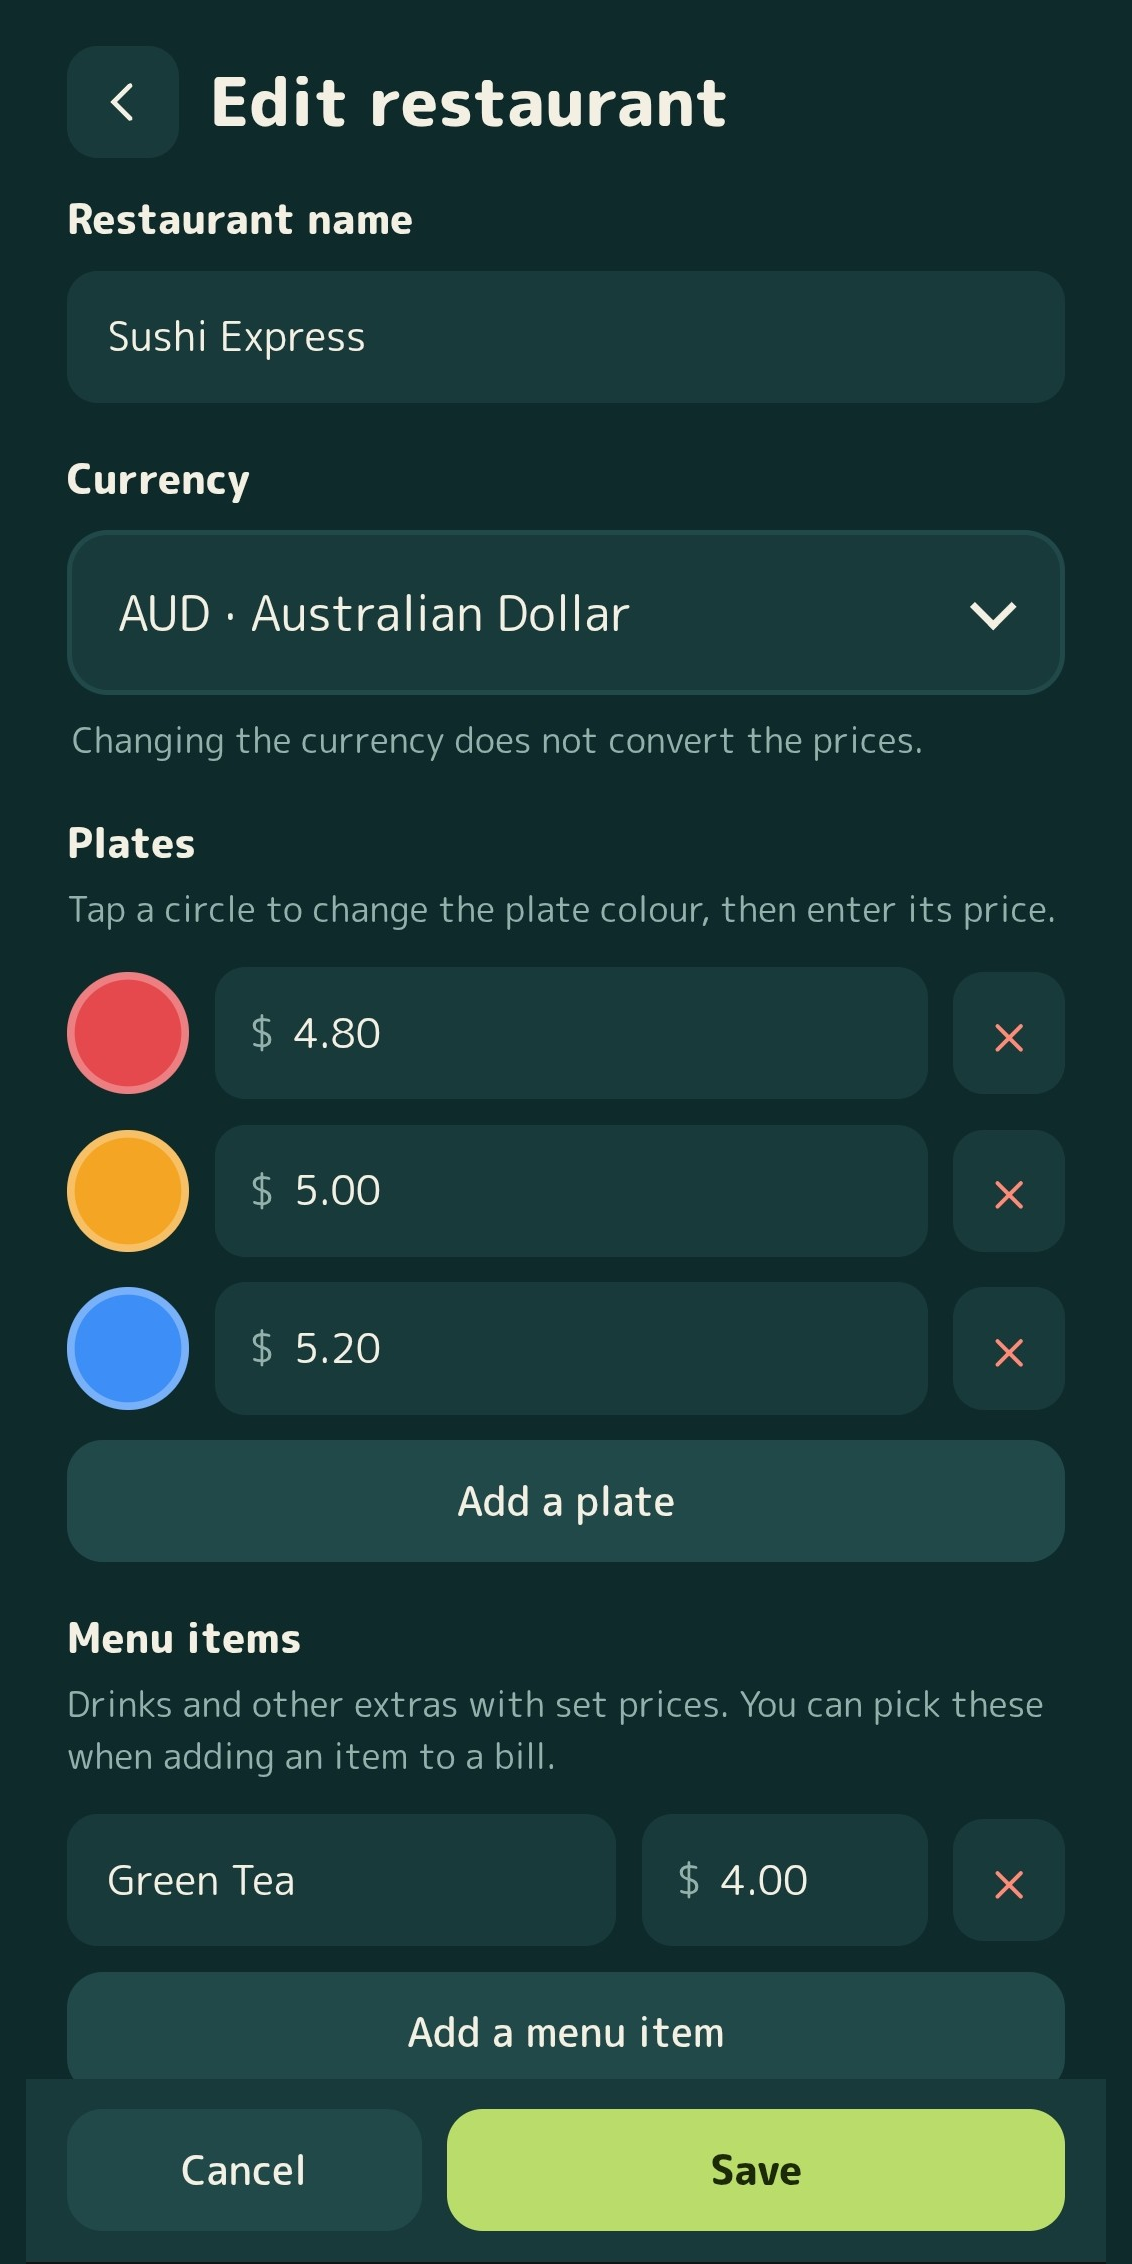
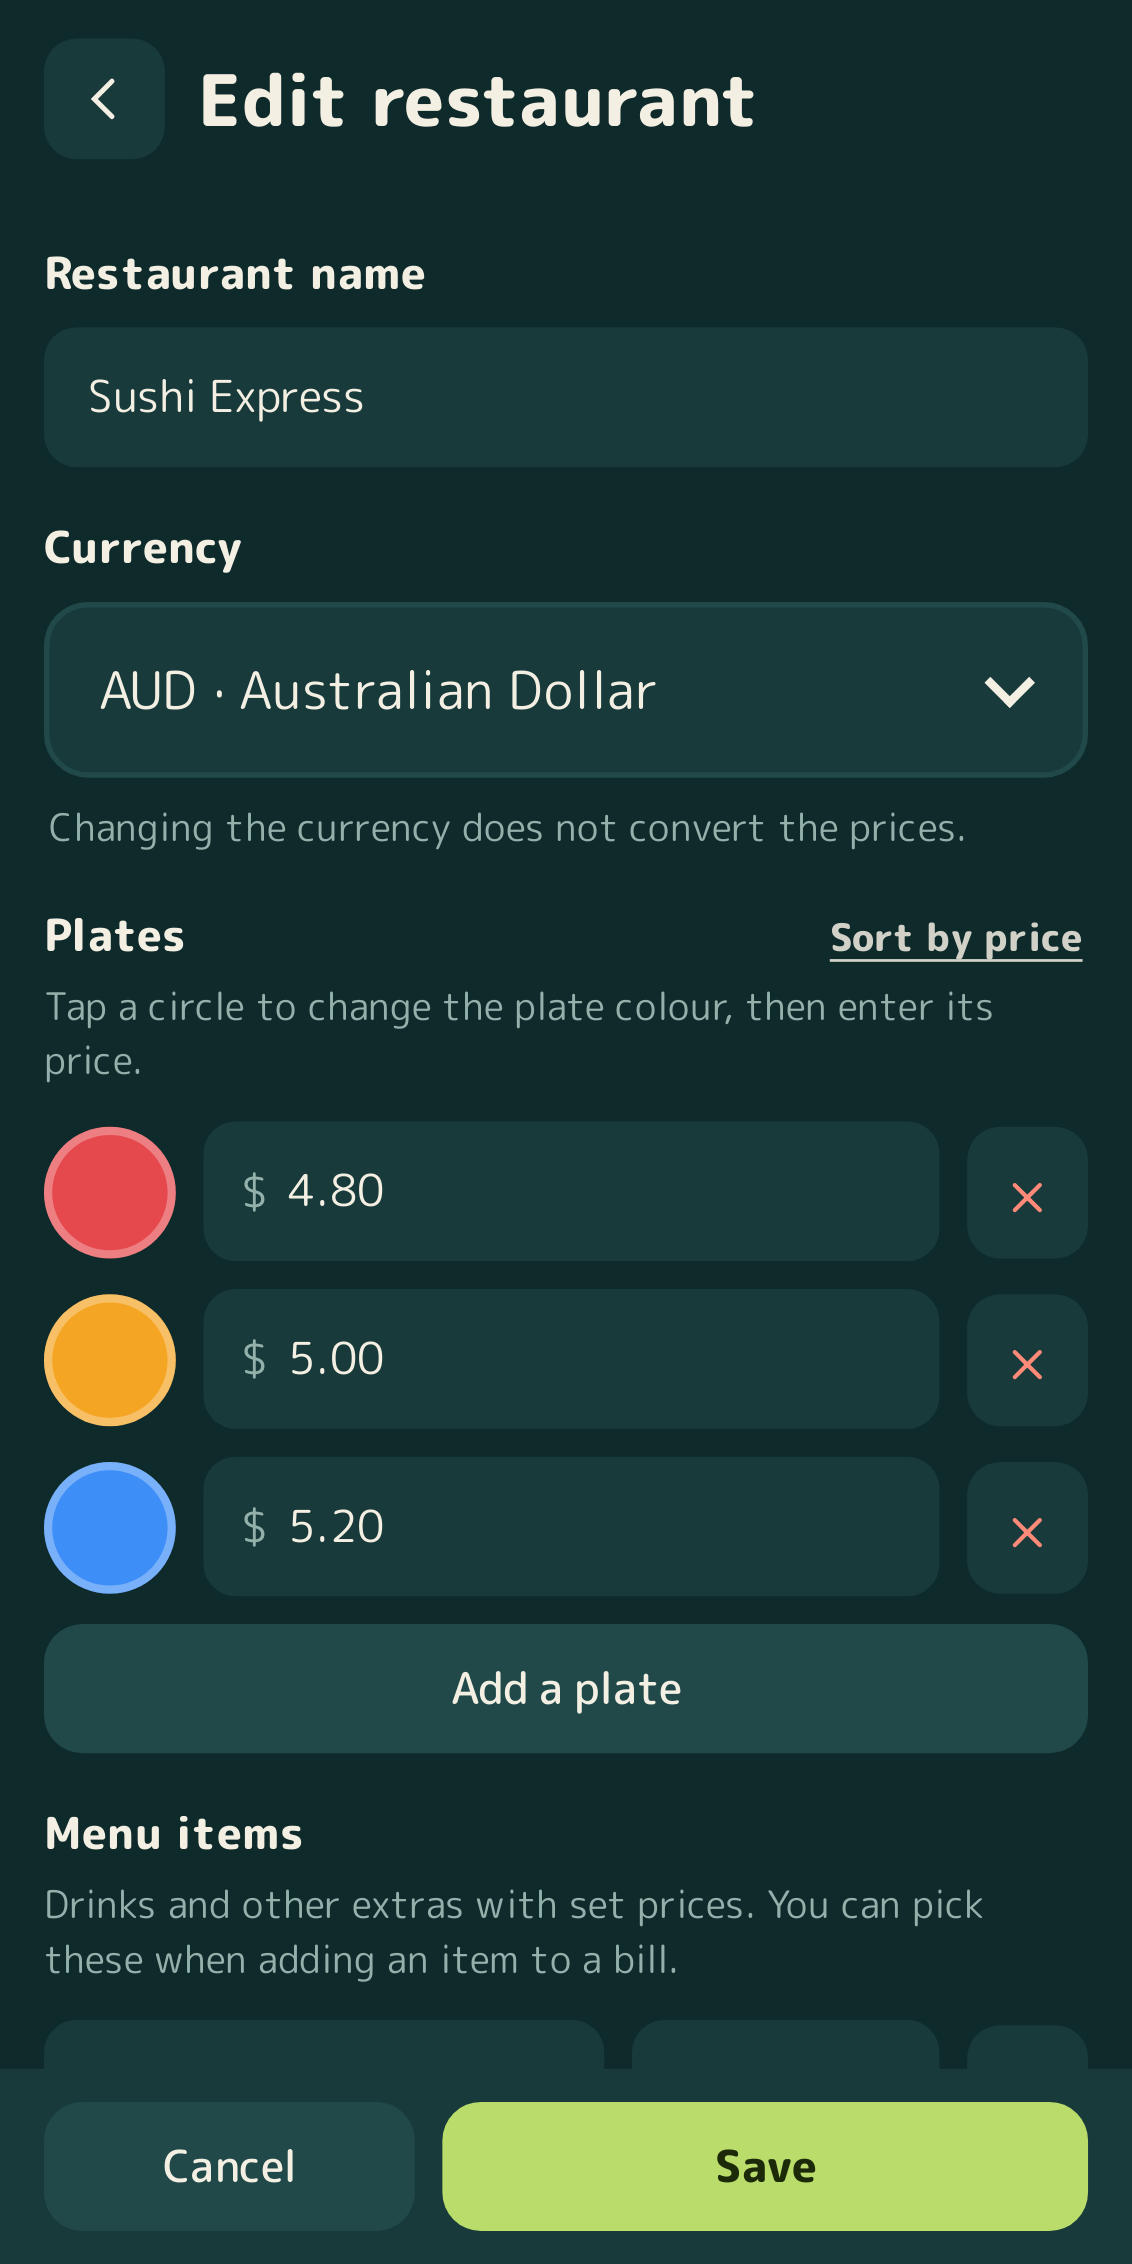
Package release: zoom, sort by price, plates behind the drawer
Version label, Play listing and release notes, new setup-screen screenshot (shows Sort by price).

Claude-Session: https://claude.ai/code/session_01SVa3V2ZxhkfNwn7jyv9Qwi

diff --git a/src/js/01-config-state.js b/src/js/01-config-state.js
@@ -1,5 +1,5 @@
 /* ============ config ============ */
-const BUILD = '22 Oct 2026 · share by QR code, end meal';   // shown on the landing page so you can tell which copy is running
+const BUILD = '22 Oct 2026 · zoom, sort by price';   // shown on the landing page so you can tell which copy is running
 const BUILD_ID = 'dev';   // stamped with the git commit by update.sh
 const KEY = 'plateTally.v1';
 const SWATCHES = ['#e5484d','#f5a524','#f2d74a','#4cb782','#3e8ef7','#8b5cf6','#e8e2d4','#2b2b2b'];

diff --git a/store/listing.md b/store/listing.md
@@ -18,8 +18,9 @@ Set up your restaurant once: choose a colour and a price for each plate. Then, e
 
 EVERYTHING IS FREE
 • Tap a plate to add it, with a big running total at the top
-• Colour-coded plates with the price shown on each one, as many as your restaurant has
+• Colour-coded plates with the price shown on each one, as many as your restaurant has, sorted by price in one tap
 • Took one by mistake? Remove-a-plate mode takes it off again
+• Pinch to zoom: choose 2 to 6 plates across, for big easy targets or everything on one screen
 • An itemised bill showing every plate colour and the total, and End meal to clear it when you leave
 • Add drinks and other extras with a price and a short description
 • Saved menu items: pick your usual drink in one tap, with suggestions from your other restaurants
@@ -61,6 +62,12 @@ Perfect for solo diners, families, and anyone who has ever lost count of the pla
 **Data safety note.** The app collects nothing: restaurants, prices and bills stay on the phone, there are no accounts, no analytics, no ads and no purchases, and the font is bundled so there are no third-party requests. The only network traffic is loading the app's own files from your Cloudflare-hosted site, which (like any web host) sees IP addresses. Sharing by QR code does not change this: the camera picture is only read on the phone to find the code, and nothing is sent anywhere, so it is not "collected" in Google's sense. The form is a declaration you make, so read Google's definitions on the form itself and answer the way you are comfortable with. If you later add analytics, accounts or cloud backup, this answer and the privacy policy must change.
 
 ## Release notes
+
+Zoom release (22 Oct 2026):
+
+```
+Pinch the plates (or use Zoom in the menu) to choose 2 to 6 plates across. Sort your plates by price in one tap when setting up a restaurant. With lots of plates, they now scroll on behind the drawer.
+```
 
 Share and end meal release (22 Oct 2026):
 
